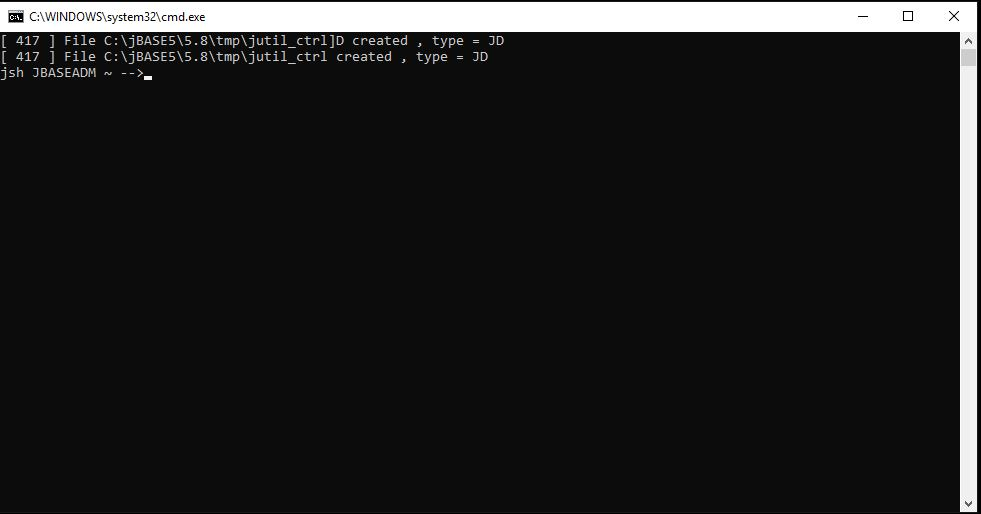
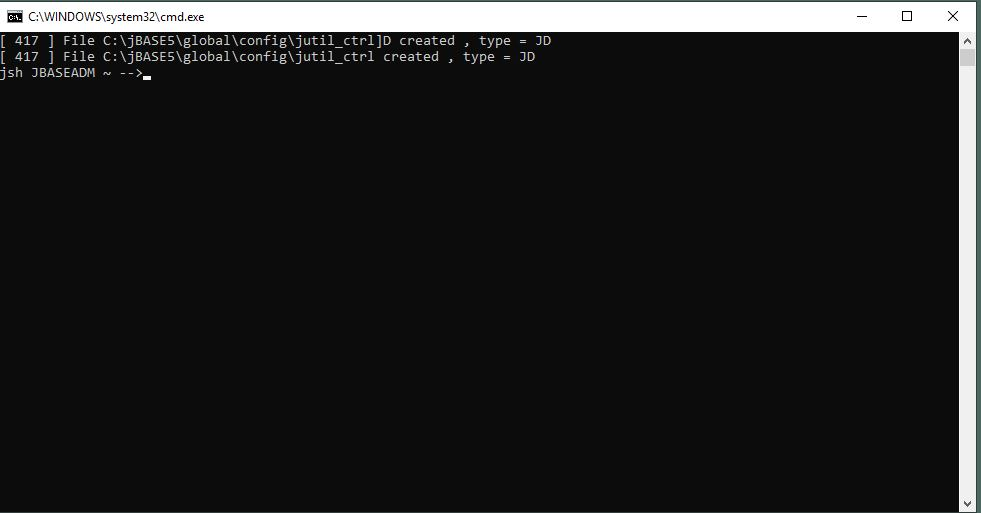
jBASE 5.8 Windows Installation updates

Changed region(s): [[0.0, 0.0, 1.0, 1.0], [0.5505, 0.0624, 0.581, 0.0936]]

diff --git a/site/jbase/administration/installation-guides/windows/jbase-5-8-windows-installation-guide/README.md b/site/jbase/administration/installation-guides/windows/jbase-5-8-windows-installation-guide/README.md
@@ -83,15 +83,17 @@ Compiler Setup is complete and we can now install jBASE.
 
 ![Information](./58Installer_13.jpg)
 
-![Install Runtime and jBASE Components](./58Installer_14.jpg)
+![Install Runtime and jBASE Components Briefly](./58Installer_13A.jpg)
 
-We will cover the Advanced Installation Options.
+![Install Runtime and jBASE Components Finished](./58Installer_14.jpg)
+
+We will cover the Advanced Installation Options, which provide control over what is installed and where.
 
 ![Installation Type](./58Installer_15.jpg)
 
 ![Select Destination Location](./58Installer_16.jpg)
 
-With jBASE 5.8, user profiles are introduced and the default version is stored in JBCGLOBALDIR
+With jBASE 5.8, user profiles are introduced and the default version is stored in JBCGLOBALDIR, which may now be a different location than JBCRELEASEDIR.
 
 ![Select Directory for jBASE Global Files](./58Installer_17.jpg)
 
@@ -108,6 +110,8 @@ With jBASE 5.8, user profiles are introduced and the default version is stored i
 ![Ready to Install](./58Installer_23.jpg)
 
 ![Preparing to Install](./58Installer_24.jpg)
+
+The jBASE installation process will be performed here, before displaying the following:
 
 ![Information](./58Installer_25.jpg)
 
